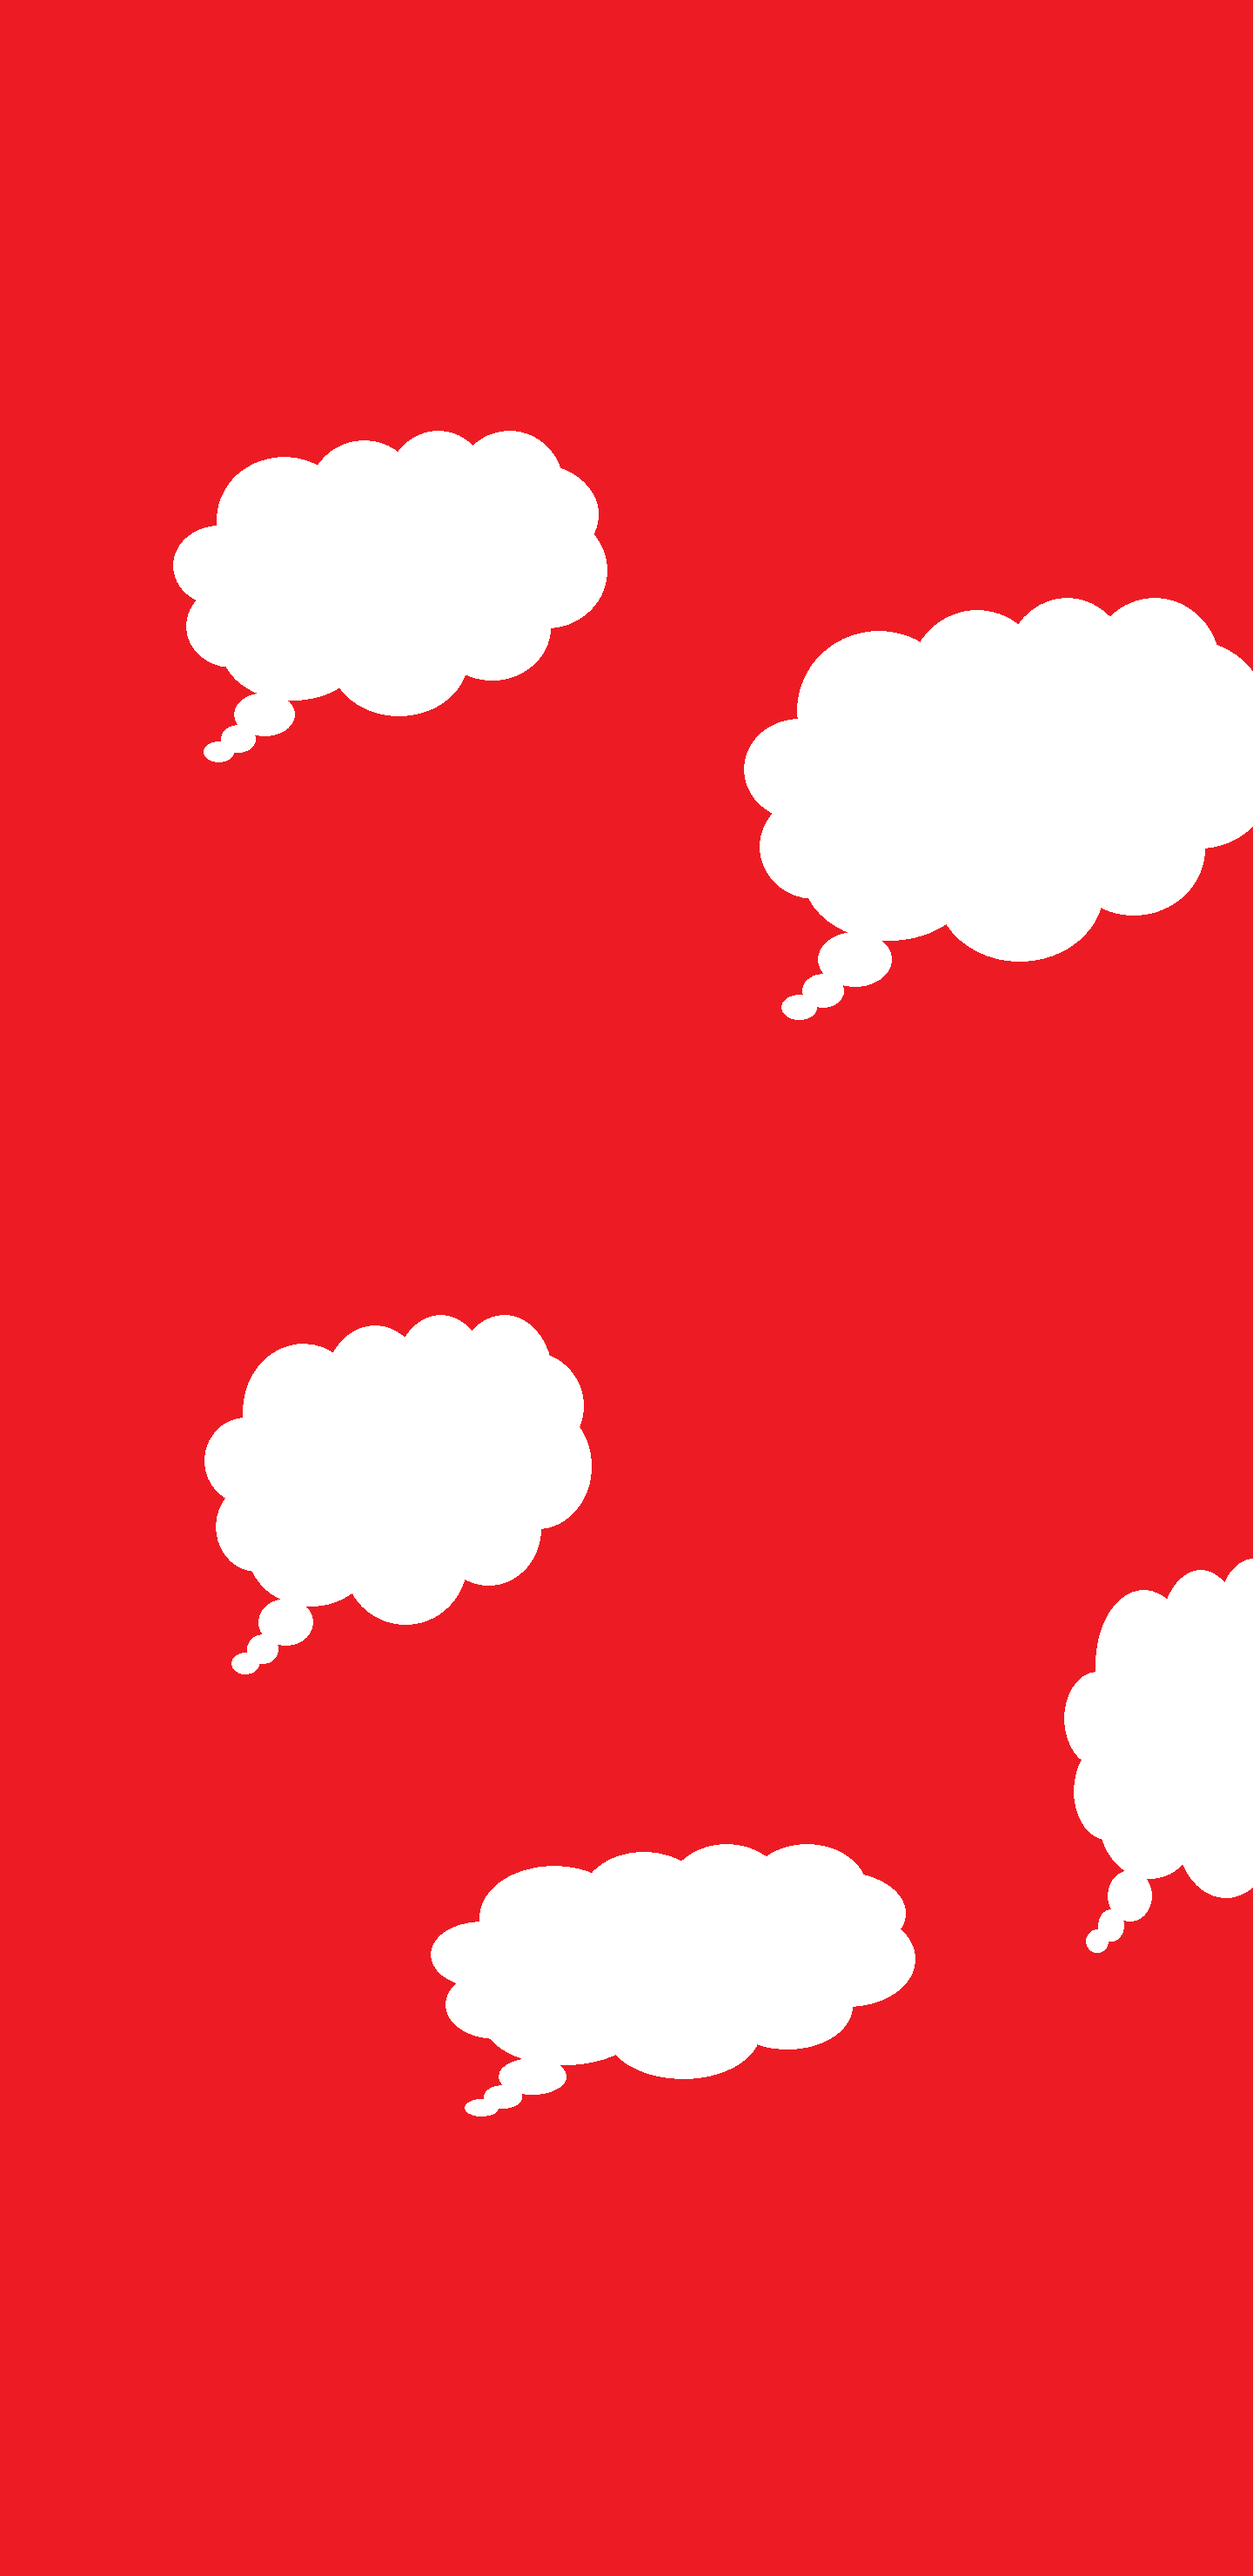
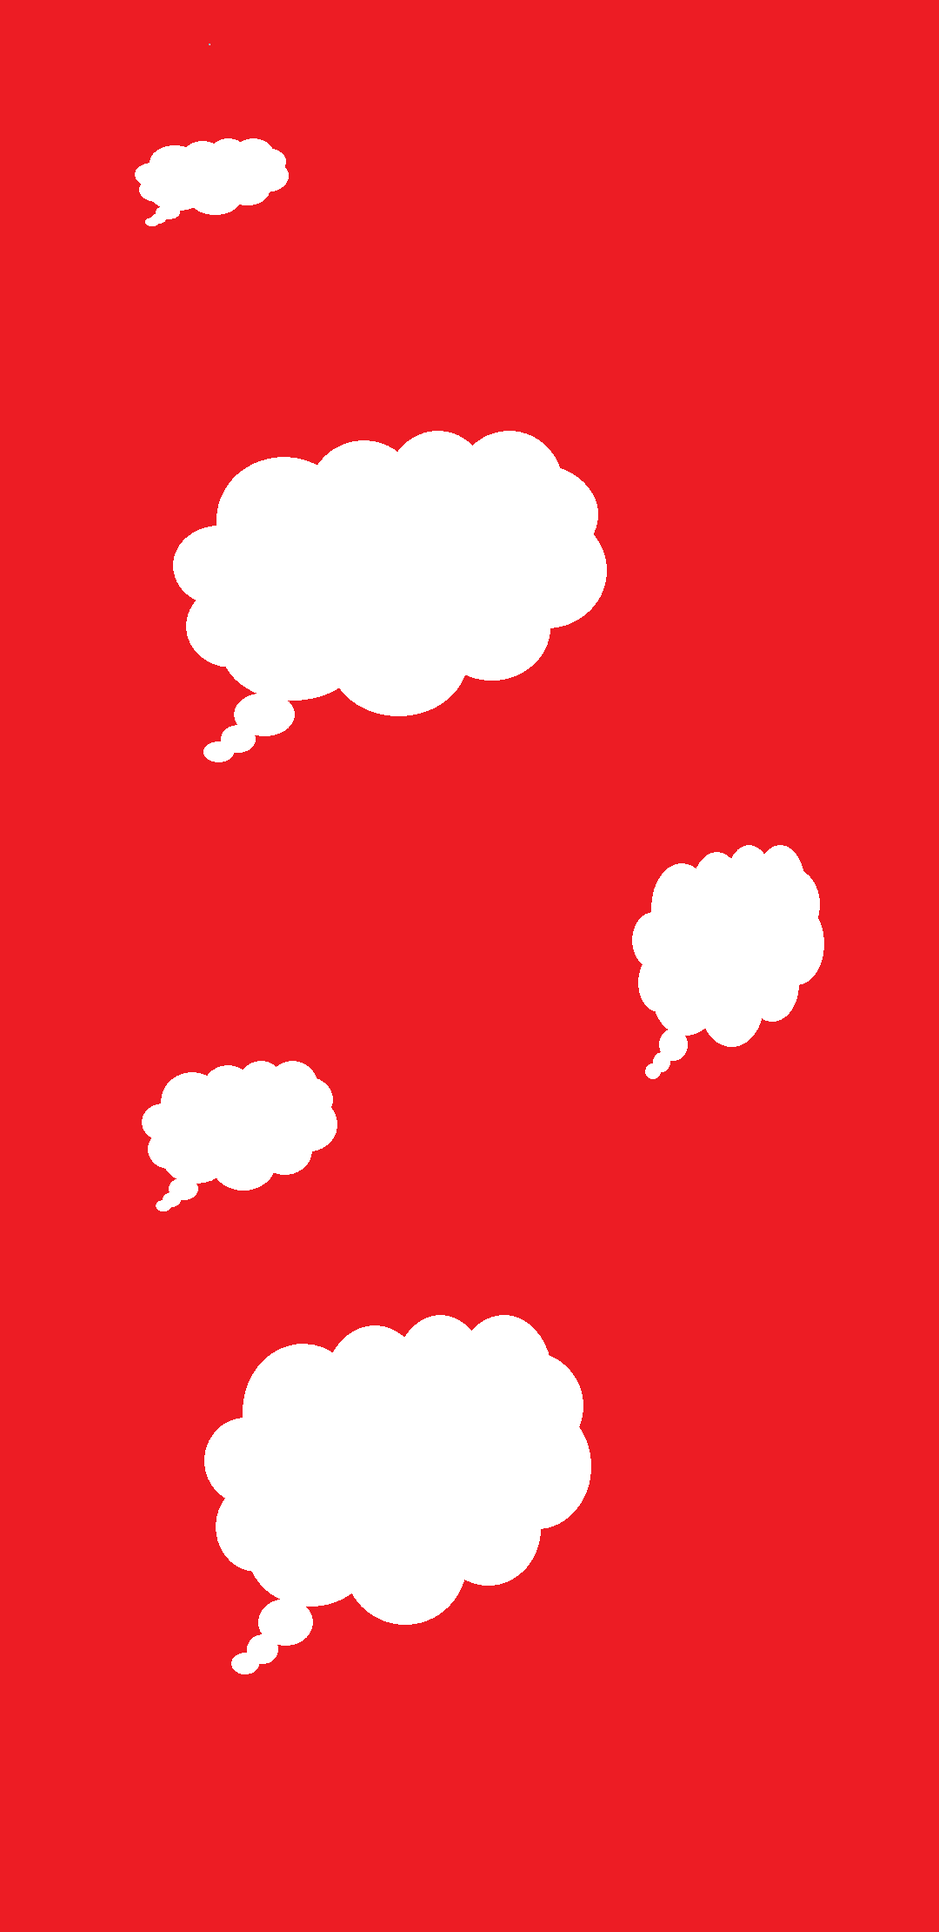
submission

diff --git a/MGD-Courswork/app/src/main/assets/gameLogic.js b/MGD-Courswork/app/src/main/assets/gameLogic.js
@@ -34,7 +34,7 @@ function StartState()
         InitialiseGameValues();
 
     if(clicking)
-    //if(clicking &&  CollisionDetection(ClickRect(clickX / playButton.scaleX , clickY / playButton.scaleY), playButton.Collider()))
+        if( BoundingBoxCollision(ClickRect(clickX / playButton.scaleX , clickY / playButton.scaleY), playButton.Collider()))
     {
         console.log("here");
         if(canChangeState)  
@@ -129,14 +129,14 @@ function BackgroundScroll()
 function InitialiseObjects()
 {
     //start
-    startScreen = new Background(-100,0, "Art/startScreen.png", 1, 1440, 2960, 1, 1, 0,0,0,0,0);
+    startScreen = new Background(0,0, "Art/startScreen.png", 1, 1080, 2220, 1, 1, 0,0,0,0,0);
     //startScreen = new Background(-100,0, "Art/startScreen.png", 1, canvas.width, canvas.height, 1, 1, 0,0,0,0,0);
 
     //gamea
     parachuteMan = new Player(0, 0, "Art/parachuteMan.png", 0.5, 0.5, 260, 410, 100, 200);
 
-    background = new Background(-100, 0 ,"Art/skyLoop.png", 1, 1440,2960, 1, 1, 1, 1, 1, 1, -10 );
-    background2 = new Background(-100, 2960 ,"Art/skyLoop.png", 1, 1440, 2960, 1, 1, 1, 1, 1, 1, -10 );
+    background = new Background(0, 0 ,"Art/skyLoop.png", 1, 1080, 2220, 1, 1, 0, 0, 0, 0, -10 );
+    background2 = new Background(0, canvas.height / .35 ,"Art/skyLoop.png", 1, 1080, 2220, 1, 1, 0, 0, 0, 0, -10);
 
     for(var i = 0; i < 4; i++)
         coins[i] = new Coin(getRandomX(),getRandomY() ,"Art/dogeCoin.png", .5, .5);

diff --git a/MGD-Courswork/app/src/main/assets/mainGame.js b/MGD-Courswork/app/src/main/assets/mainGame.js
@@ -70,7 +70,7 @@ function AddListeners()
 	window.addEventListener('resize', CanvasResize, false);
 	window.addEventListener('devicemotion', DeviceMotion)
 
-	canvas.addEventListener("touchstart", ClickDown, false);
+	canvas.addEventListener("touchstart", TouchDown, false);
 	canvas.addEventListener("touchend", ClickUp, false);
 	
 	document.addEventListener
@@ -160,6 +160,15 @@ function ClickDown(event)
 	 console.log("click x: " + clickX + "click y: " + clickY);
 }
 
+function TouchDown(event)
+{
+	clicking= true;
+	clickX = event.touches[0].pageX;
+	 clickY = event.touches[0].pageY;
+	 console.log("touch x: " + clickX + "touch y: " + clickY);
+
+}
+
 function ClickUp(event)
 {
 	clicking = false;
@@ -218,7 +227,5 @@ function getRandomY()
 
 function ClickRect(x, y)
 {
-	 console.log("x " + x);
-	 console.log("y " + y);
 	return rect = {x: x, y: y, width: 1, height: 1};
 }

diff --git a/MGD-Courswork/app/src/main/assets/Background.js b/MGD-Courswork/app/src/main/assets/Background.js
@@ -10,8 +10,8 @@ class Background extends aSprite
     get yPosition(){ return super.yPosition; }
     set yPosition(newPos){ return super.yPosition = newPos; }
 
-    get scaleX(){return .5; }
-    get scaleY(){return .5; }
+    get scaleX(){return .35; }
+    get scaleY(){return .35; }
 
     set Background(filePath){ return super.Background = filePath; }
     Render()
@@ -25,6 +25,6 @@ class Background extends aSprite
         this.yPosition = Lerp(this.yPosition, newPos, this.speed);
         
         if(this.yPosition + this.frameHeight <= 0)
-            this.yPosition = canvas.height + 2000;
+            this.yPosition = canvas.height / this.scaleY;
     }
 }

diff --git a/MGD-Courswork/app/src/main/assets/rendering.js b/MGD-Courswork/app/src/main/assets/rendering.js
@@ -21,10 +21,17 @@ function StartMenuRender()
 	canvasContext.save();
 	canvasContext.scale(playButton.scaleX, playButton.scaleY);
 	playButton.Render();
-	playButton.DrawBoxCollider();
-	canvasContext.restore();	 
-}
+	//playButton.DrawBoxCollider();
+	canvasContext.restore();	
+	
+	canvasContext.save();
+	canvasContext.font = "20px Arial";
+	canvasContext.fillText("Play game by tilting device back n forth." , 0, 100);
+	canvasContext.fillText("Tap play when ready" , 100, 150);
+	
 
+	canvasContext.restore();
+}
 function GamePlayRender()
 {
 	

diff --git a/MGD-Courswork/app/src/main/assets/menuManager.js b/MGD-Courswork/app/src/main/assets/menuManager.js
@@ -2,7 +2,7 @@ var playButton;
 
 function InitialiseButtons()
 {
-    playButton = new Button((canvas.width / 2 /0.25 ), (canvas.height / 2 / 0.25), "Art/Buttons/playButton.png",
+    playButton = new Button(((canvas.width / 2) / 0.25) - 500, ((canvas.height / 2 ) / .25), "Art/Buttons/playButton.png",
      1, 1084, 288, 1, 
      0, 0, 1084, 288, .25, .25);
 }

diff --git a/MGD-Courswork/app/src/main/assets/canvasJS.js b/MGD-Courswork/app/src/main/assets/canvasJS.js
@@ -5,6 +5,9 @@ function CanvasResize()
 {
 	canvas.width = window.innerWidth;
 	canvas.height = window.innerHeight;
+	
+	// canvas.width = 1080;
+	// canvas.height = 2220;
 }
 
 function InitialiseCanvas()	

diff --git a/MGD-Courswork/app/src/main/assets/courseworkHTML.html b/MGD-Courswork/app/src/main/assets/courseworkHTML.html
@@ -1,4 +1,4 @@
- <!DOCTYPE html>,
+ <!DOCTYPE html>
  <html>
  <head>
  <meta charset="utf-8" />
